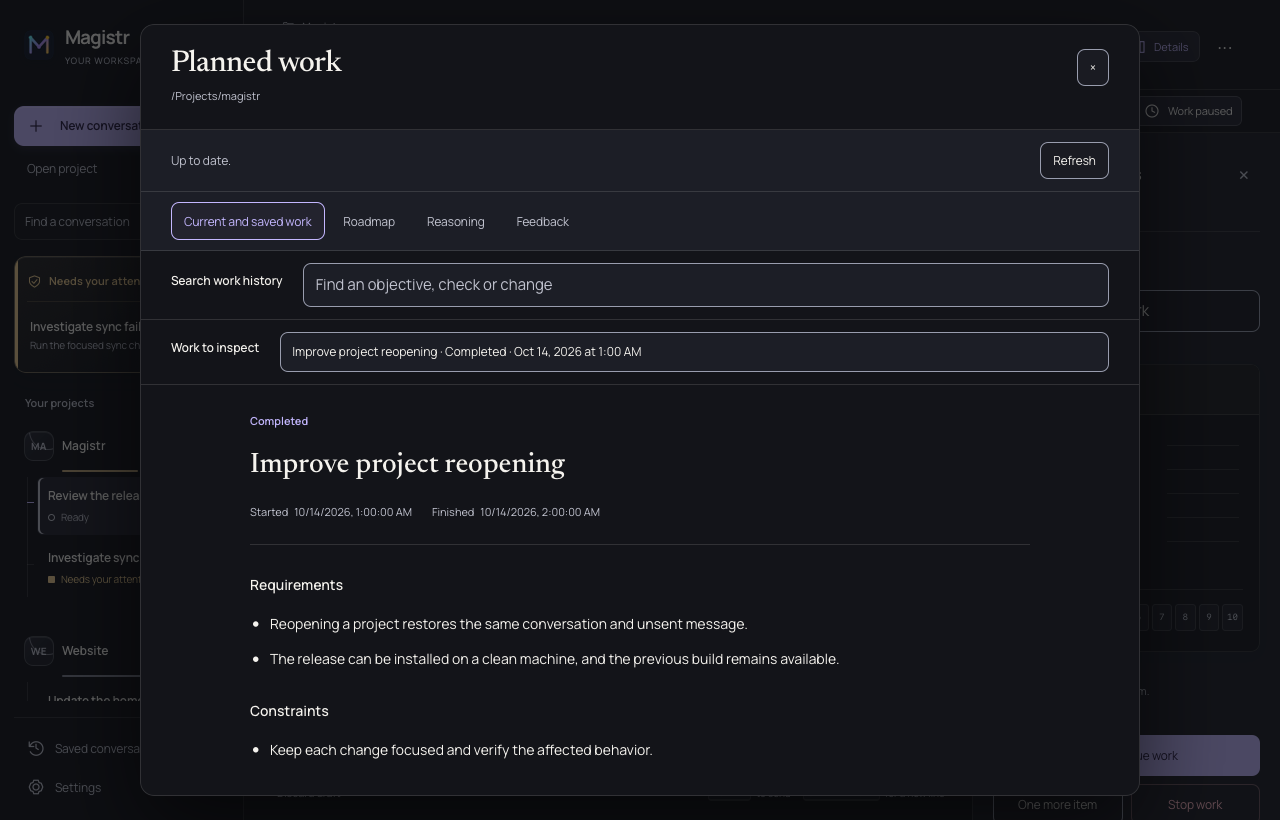
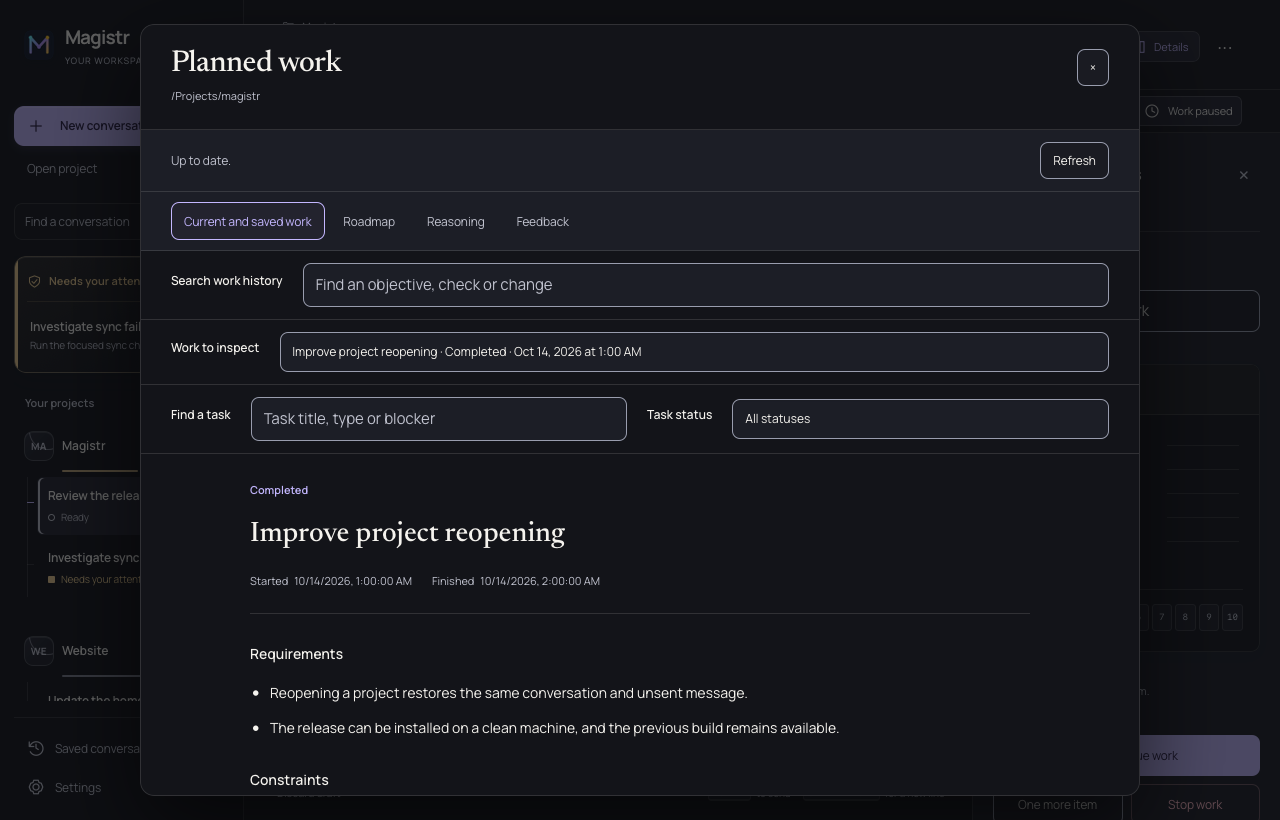
feat(desktop): navigate large task plans with stable positions

diff --git a/crates/magistr-desktop/ui/index.html b/crates/magistr-desktop/ui/index.html
@@ -134,6 +134,7 @@
   <div id="work-feedback-search" class="work-run-selection" hidden><label for="work-browser-feedback-search">Search feedback</label><input id="work-browser-feedback-search" type="search" autocomplete="off" placeholder="Find feedback or research"></div>
   <div id="work-execution-search" class="work-run-selection"><label for="work-browser-work-search">Search work history</label><input id="work-browser-work-search" type="search" autocomplete="off" placeholder="Find an objective, check or change"></div>
   <div id="work-run-selection" class="work-run-selection"><label for="work-browser-runs">Work to inspect</label><select id="work-browser-runs"></select></div>
+  <div id="work-task-filters" class="work-run-selection"><label for="work-browser-task-search">Find a task</label><input id="work-browser-task-search" type="search" autocomplete="off" placeholder="Task title, type or blocker"><label for="work-browser-task-status">Task status</label><select id="work-browser-task-status"><option value="all">All statuses</option><option value="planned">Planned</option><option value="active">In progress</option><option value="blocked">Blocked</option><option value="completed">Completed</option><option value="skipped">Skipped</option></select></div>
   <div id="work-track-selection" class="work-run-selection" hidden><label for="work-browser-track">Track</label><select id="work-browser-track"></select><label for="work-browser-roadmap-state">Items</label><select id="work-browser-roadmap-state"><option value="open">Open work</option><option value="closed">Completed and retired</option></select></div>
   <div id="work-roadmap-search" class="work-run-selection" hidden><label for="work-browser-search">Search all roadmap</label><input id="work-browser-search" type="search" placeholder="Find work in any track" autocomplete="off"></div>
   <div id="work-browser-content" role="tabpanel" aria-labelledby="work-tab-work" tabindex="0"></div>

diff --git a/crates/magistr-desktop/ui/work_browser.css b/crates/magistr-desktop/ui/work_browser.css
@@ -30,9 +30,9 @@
 .work-record-section ul{padding-left:20px}
 .work-record-section li{font-size:14px;line-height:1.8;white-space:pre-wrap;margin-block:10px}
 .work-record-count{font-size:11px;color:var(--muted)}
-.work-tasks{padding:0;list-style:none;counter-reset:work-task}
-.work-tasks>li{counter-increment:work-task;border:1px solid var(--separator);border-radius:6px;padding:16px 18px 16px 48px;position:relative;background:var(--panel)}
-.work-tasks>li::before{content:counter(work-task,decimal-leading-zero);position:absolute;left:16px;top:18px;color:var(--muted);font-size:11px}
+.work-tasks{padding:0;list-style:none}
+.work-tasks>li{border:1px solid var(--separator);border-radius:6px;padding:16px 18px 16px 48px;position:relative;background:var(--panel)}
+.work-tasks>li::before{content:attr(data-position);position:absolute;left:16px;top:18px;color:var(--muted);font-size:11px}
 .work-tasks>li[data-status=active]{border-color:var(--accent);box-shadow:inset 3px 0 var(--accent)}
 .work-task-heading{display:flex;align-items:baseline;justify-content:space-between;gap:20px}
 .work-task-heading strong{font-size:14px}.work-task-heading span{flex-shrink:0}

diff --git a/docs/reference/cockpit-modules.md b/docs/reference/cockpit-modules.md
@@ -37,6 +37,8 @@ desktop workspace. Companion Rust tests live beside their owners.
 - `crates/magistr-desktop/ui/work_reasoning_links.mjs` — direct references, revisions and project-wide identity resolution.
 - `crates/magistr-desktop/ui/work_reasoning_branch.mjs` — session-scoped investigations and recorded lifecycle.
 - `crates/magistr-desktop/ui/work_prose.mjs` — complete literal authored prose and exact copying.
+- `crates/magistr-desktop/ui/work_execution.mjs` — execution browsing, selection and task filter state.
+- `crates/magistr-desktop/ui/work_task_view.mjs` — bounded task views and recorded type/timestamps.
 - `crates/magistr-desktop/ui/work_execution_search.mjs` — complete current/retained execution search and exact run selection.
 - `crates/magistr-desktop/ui/work_proposals.mjs` — explicit roadmap suggestions beside the actual saved values.
 - `crates/magistr-desktop/ui/work_references.mjs` — exact cross-family feedback references and explicit unresolved states.
